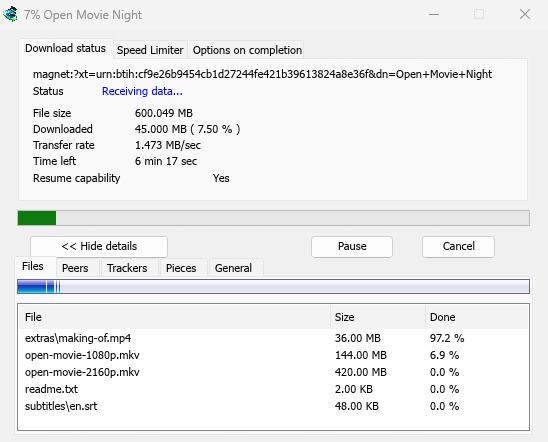
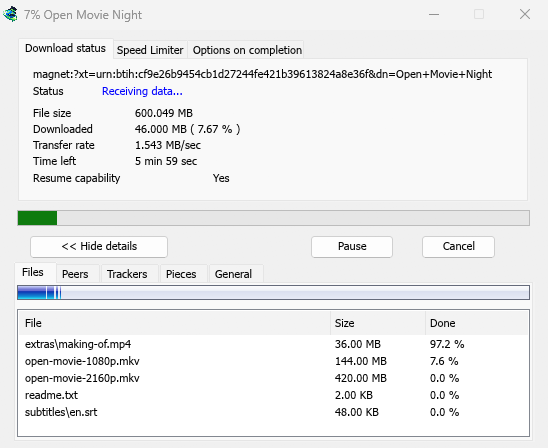
Progress: a torrent's tab strip no longer touches the buttons above it

diff --git a/crates/app/src/progress.rs b/crates/app/src/progress.rs
@@ -135,7 +135,7 @@ impl Progress {
             crate::i18n::isolate(&item.file_name)
         );
         let client = if self.details {
-            [548.0, 412.0]
+            [548.0, 412.0 + torrent_drop(item)]
         } else {
             [548.0, 241.0]
         };
@@ -330,7 +330,7 @@ impl Progress {
         }
 
         if self.details && item.torrent.is_some() {
-            self.torrent_details(ui, &p, o, item);
+            self.torrent_details(ui, &p, o + egui::vec2(0.0, torrent_drop(item)), item);
         } else if self.details {
             winui::text_in_window(
                 ui,
@@ -910,6 +910,12 @@ fn status_page(ui: &Ui, o: Pos2, item: &Item, snap: Option<&Snapshot>, frac: f64
         };
         fit(label, vx, base, &value, vc);
     }
+}
+
+/// How much lower a torrent's details sit than a download's (and how much taller its window
+/// is): its tab strip, where the connections caption is, would touch the buttons above.
+fn torrent_drop(item: &Item) -> f32 {
+    if item.torrent.is_some() { 6.0 } else { 0.0 }
 }
 
 impl Progress {
